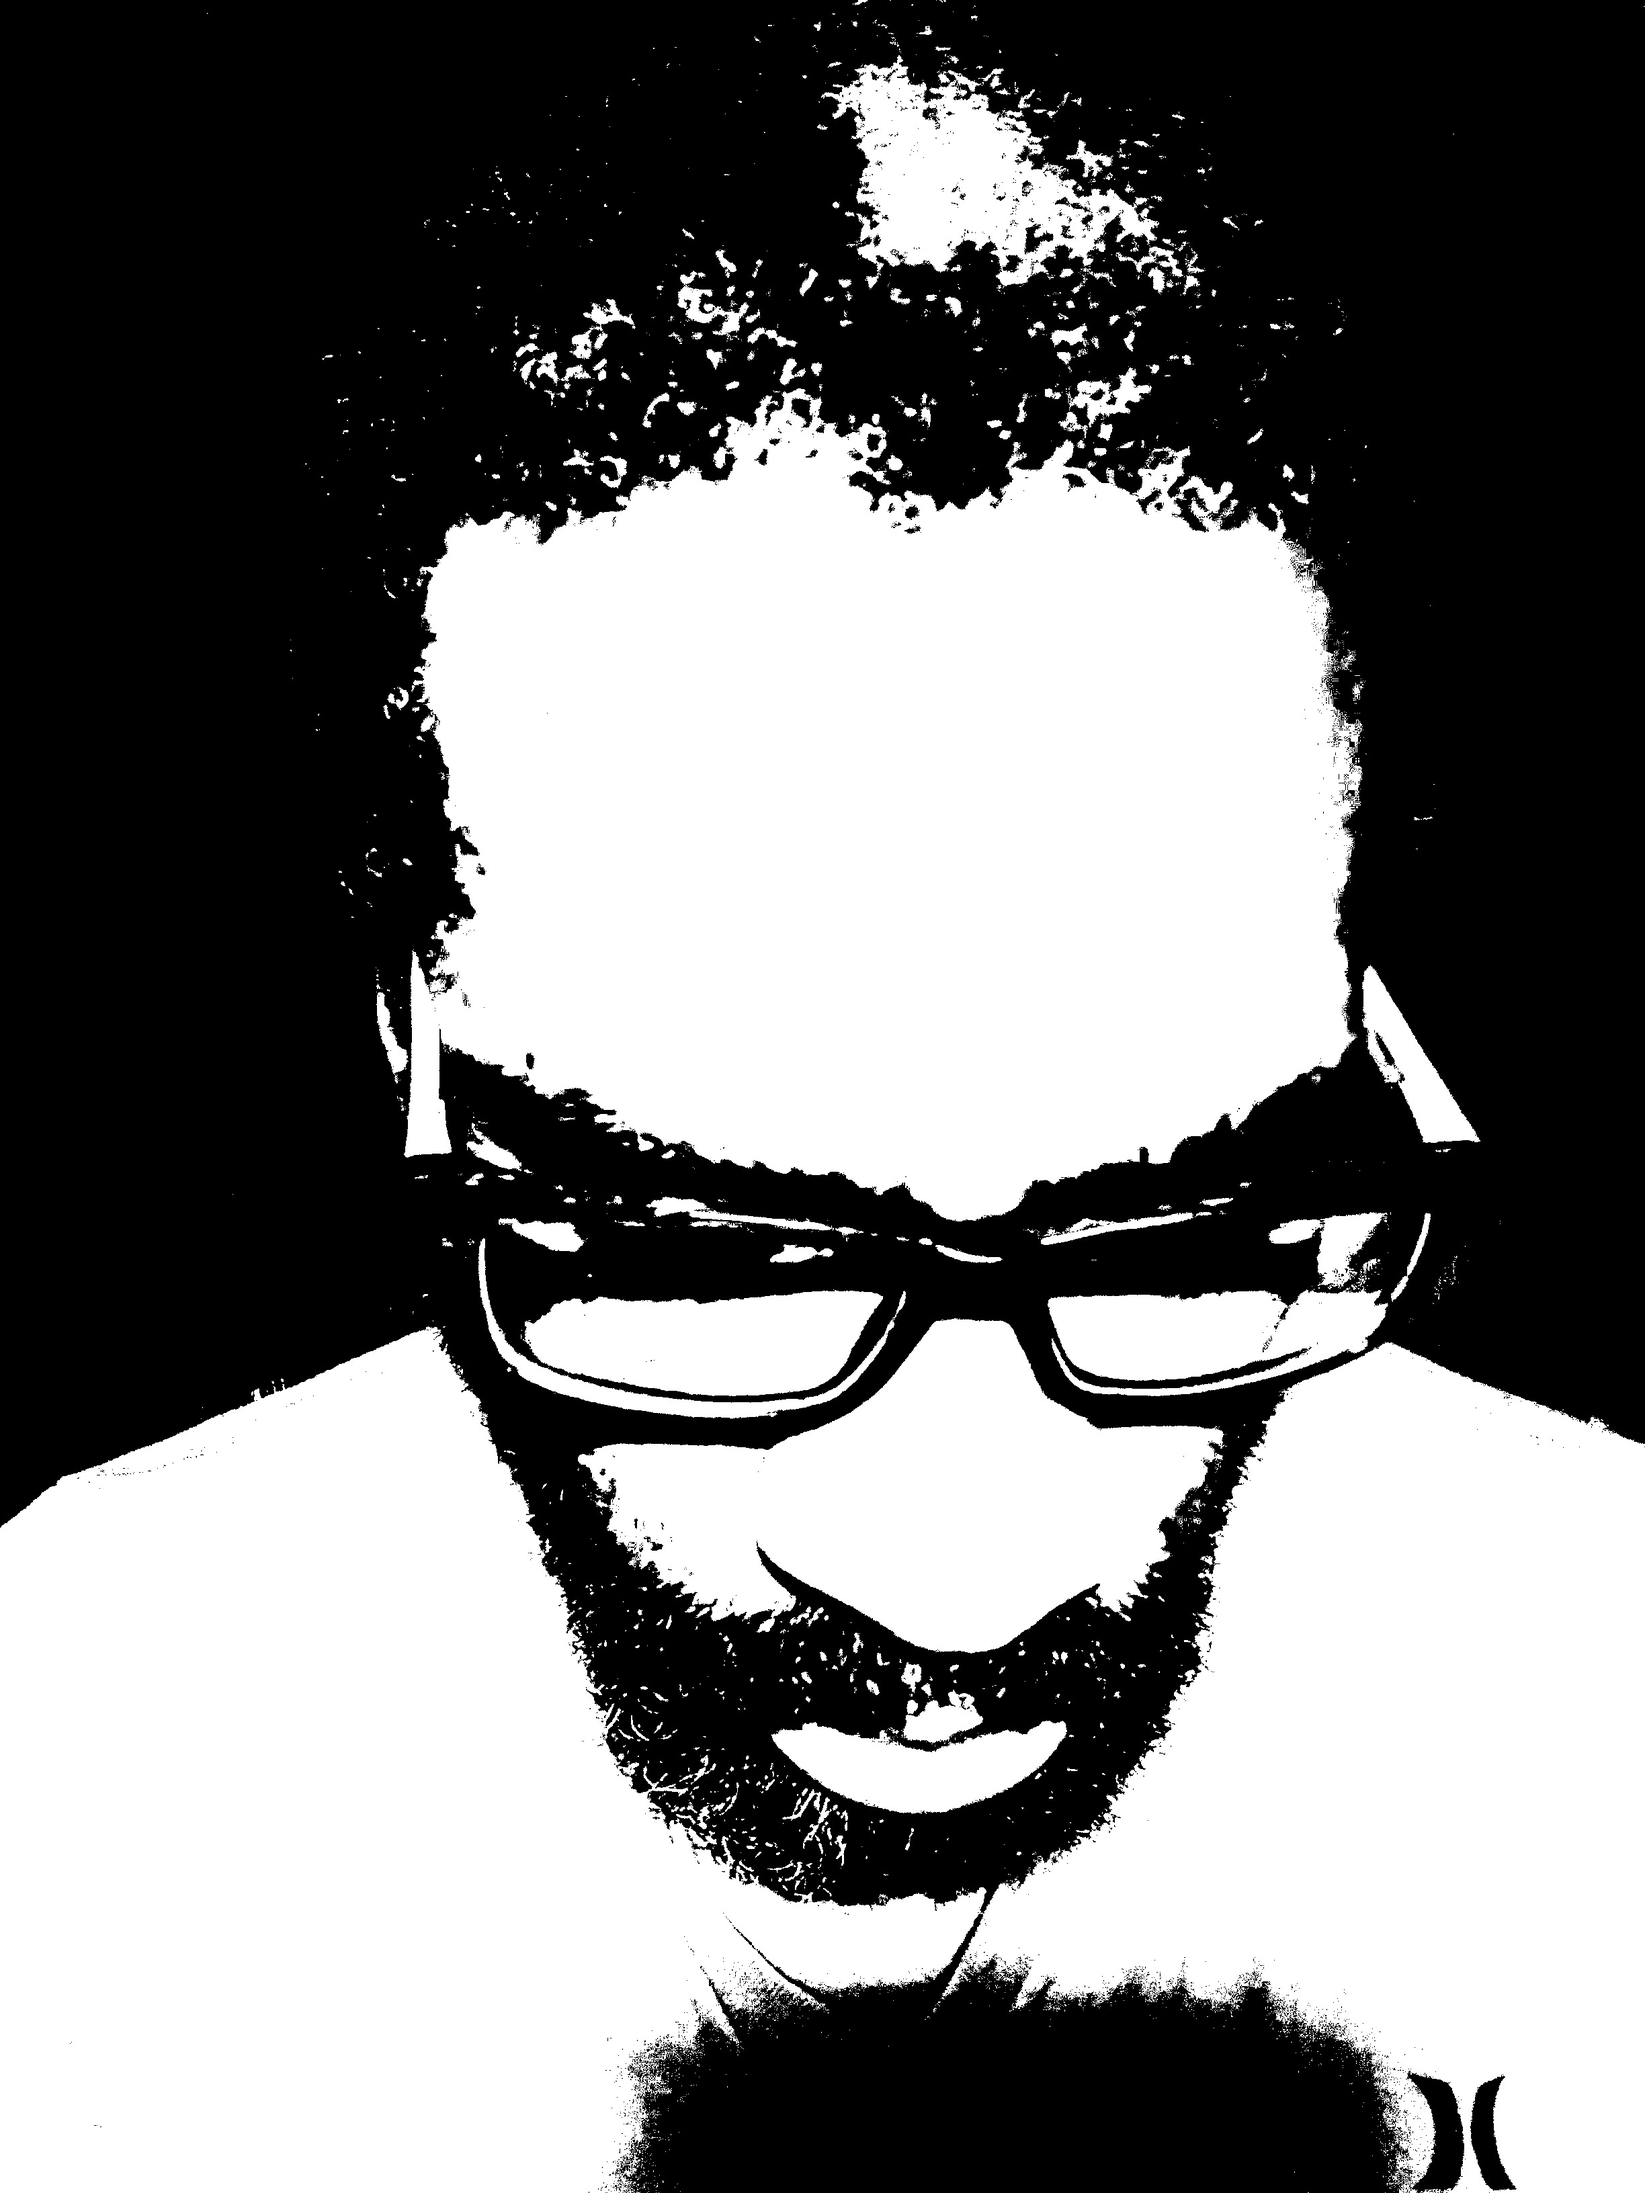
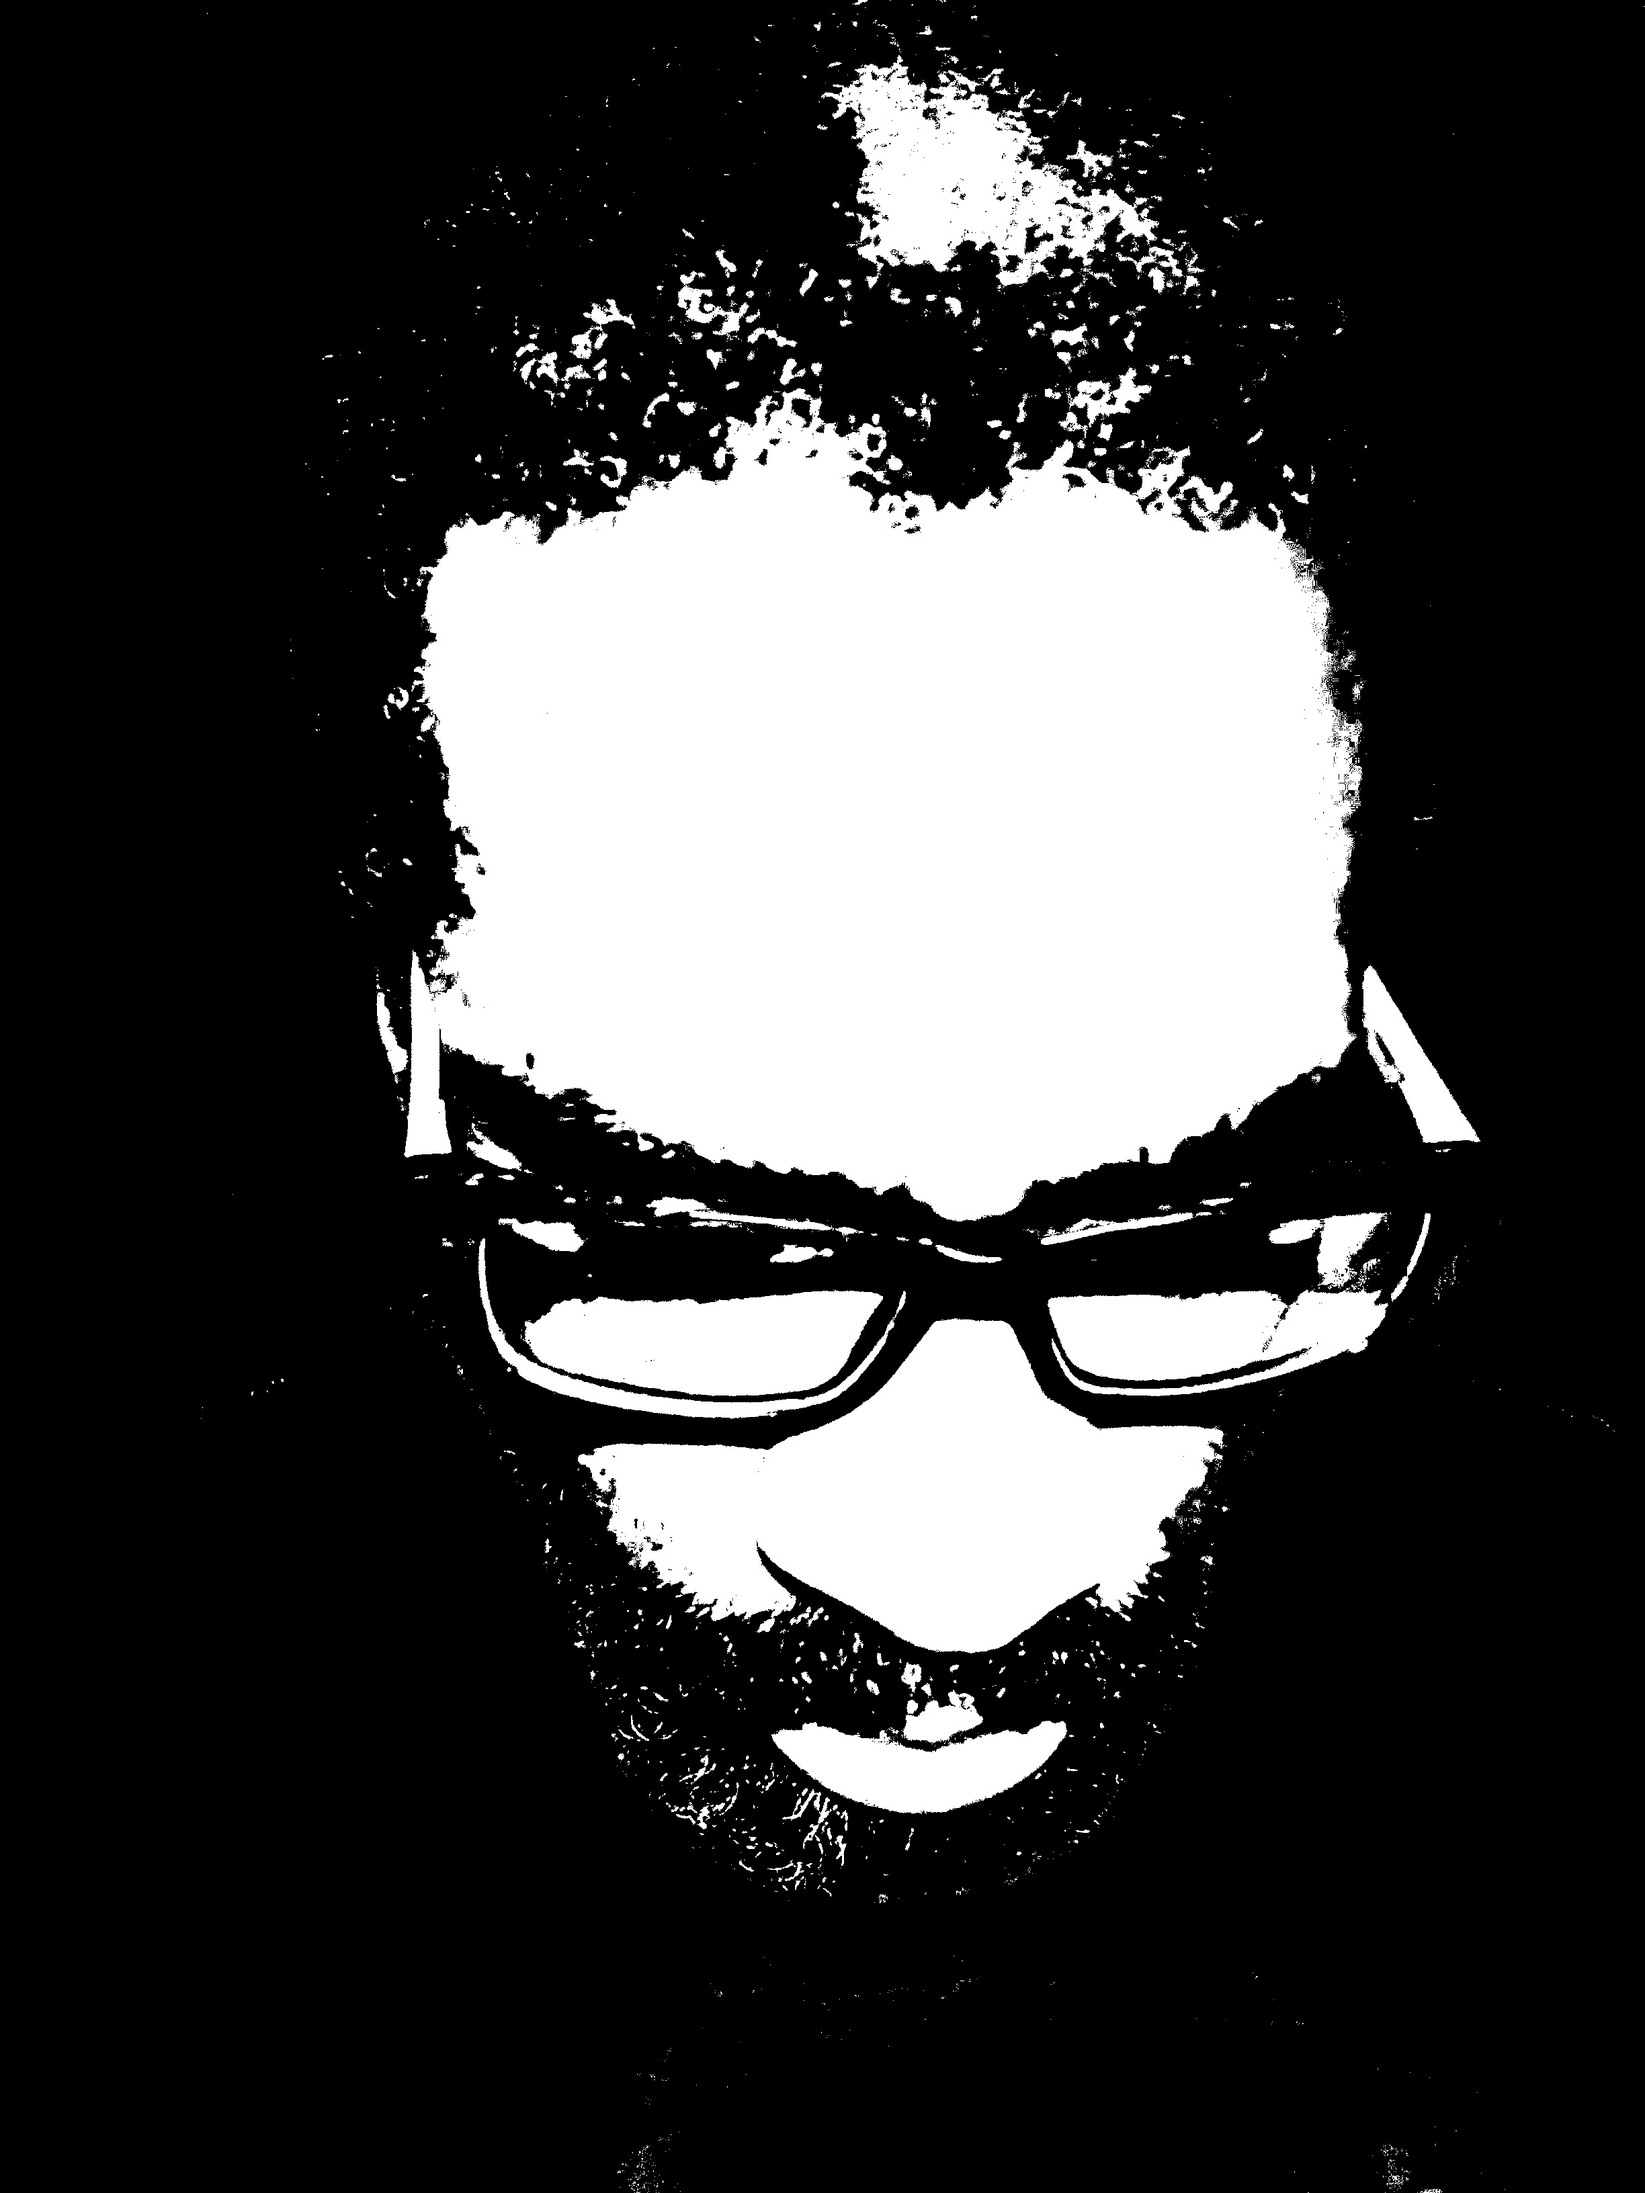
updating page

Changed region(s): [[0.0, 0.5938, 1.0, 1.0]]

diff --git a/index.html b/index.html
@@ -56,16 +56,15 @@ body, h1,h2,h3,h4,h5,h6 {font-family: "Montserrat", sans-serif}
   <header class="w3-container w3-padding-32 w3-center w3-black" id="home">
     <h1 class="w3-jumbo"><span class="w3-hide-small">I'm</span> Oh-Three.</h1>
     <p>Regular dude...</p>
-    <img src="https://softweaprograma.github.io/images/ohthree.jpg" alt="boy" class="w3-image" width="992" height="1108">
+    <img src="https://softweaprograma.github.io/images/ohthree-small.jpg" alt="boy" class="w3-image" width="992" height="1108">
   </header>
 
   <!-- About Section -->
   <div class="w3-content w3-justify w3-text-grey w3-padding-64" id="about">
     <h2 class="w3-text-light-grey">My Name</h2>
     <hr style="width:200px" class="w3-opacity">
-    <p>Some text about me. Some text about me. I am lorem ipsum consectetur adipiscing elit, sed do eiusmod tempor incididunt ut labore et dolore magna aliqua. Ut enim ad minim veniam, quis nostrud exercitation ullamco laboris nisi ut aliquip
-      ex ea commodo consequat. Duis aute irure dolor in reprehenderit in voluptate velit esse cillum dolore eu fugiat nulla pariatur. Excepteur sint occaecat cupidatat non proident, sunt in culpa qui officia deserunt mollit anim id est laborum consectetur
-      adipiscing elit, sed do eiusmod tempor incididunt ut labore et dolore magna aliqua. Ut enim ad minim veniam, quis nostrud exercitation ullamco laboris nisi ut aliquip ex ea commodo consequat.
+    <p>
+        Coding is fun...
     </p>
     <h3 class="w3-padding-16 w3-text-light-grey">My Skills</h3>
     <p class="w3-wide">Photography</p>
